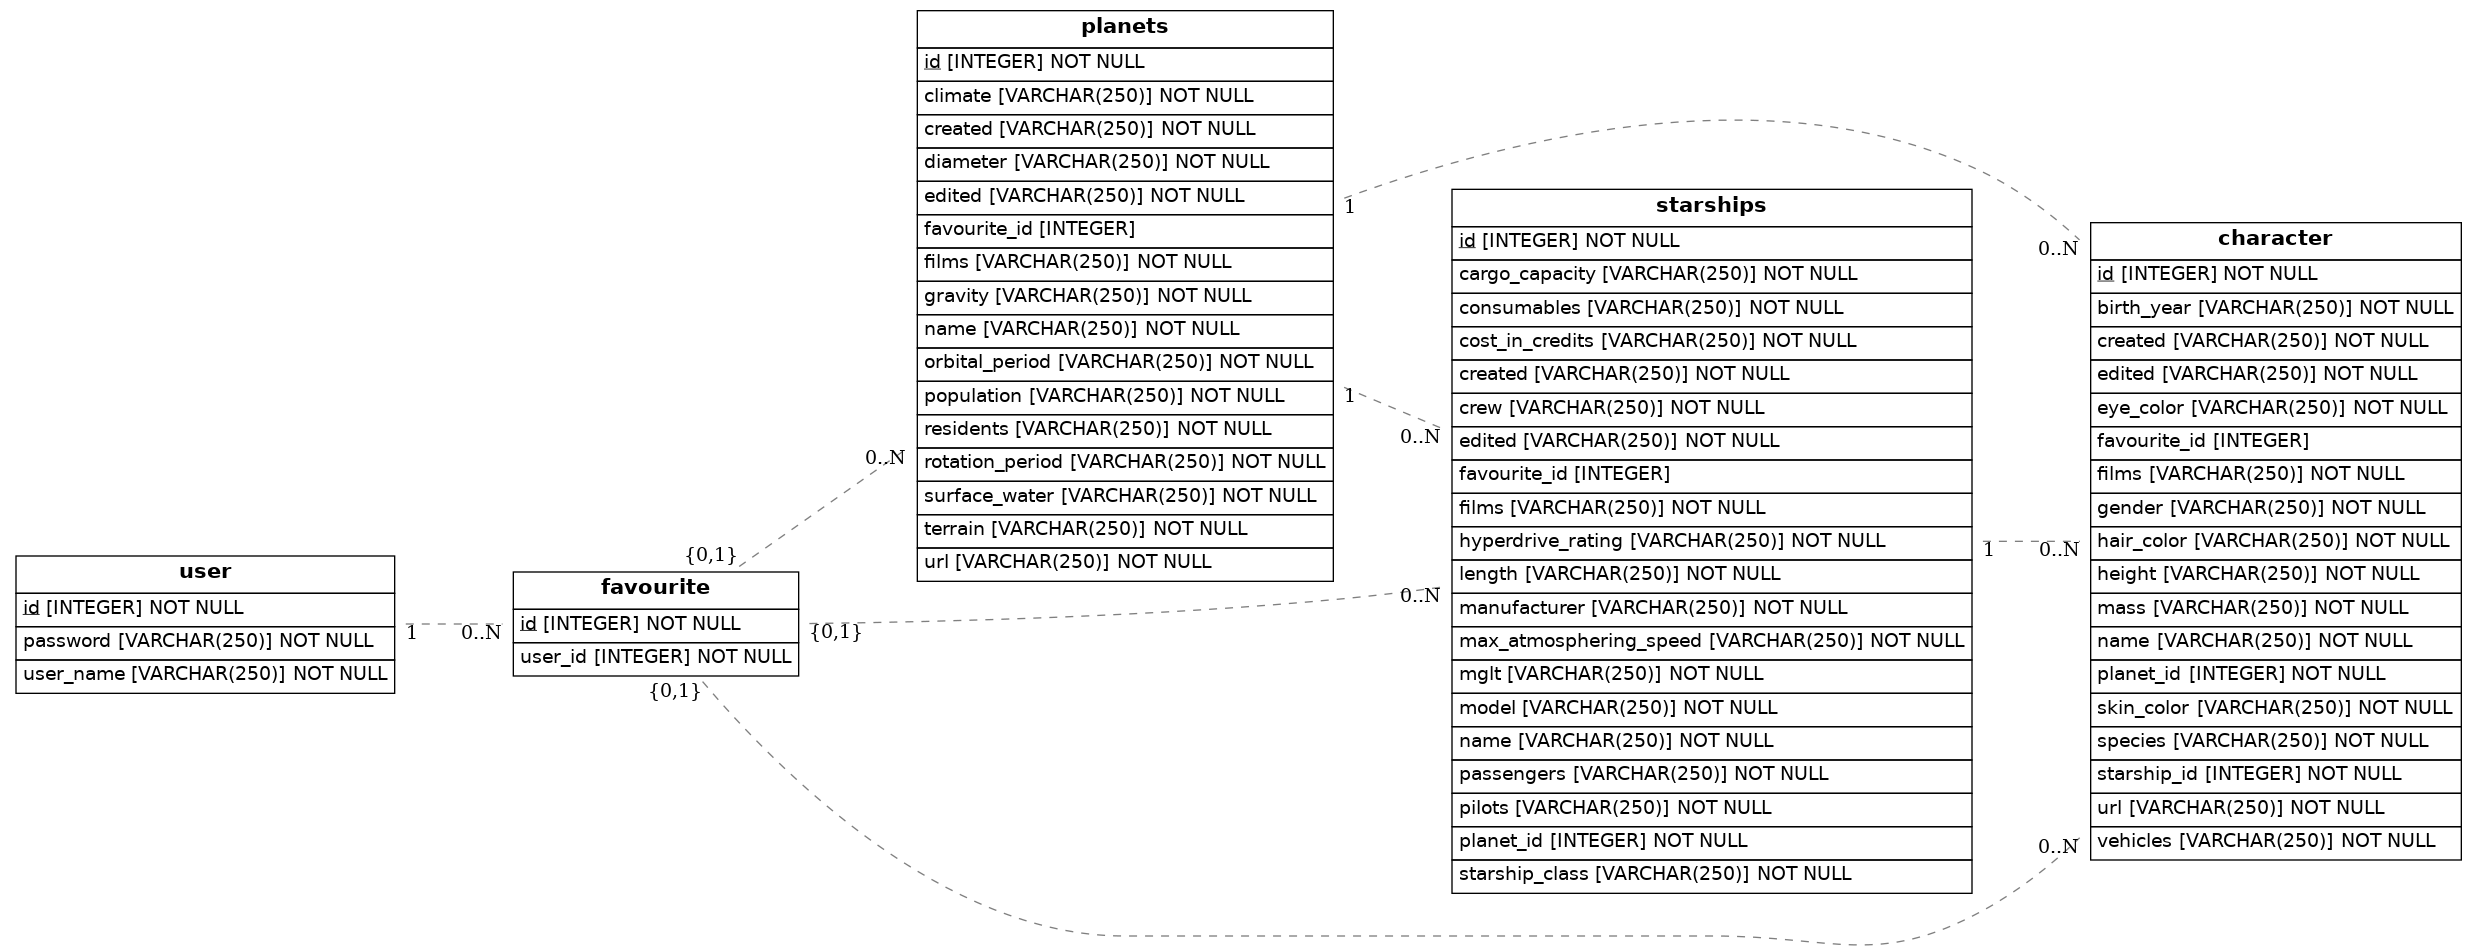
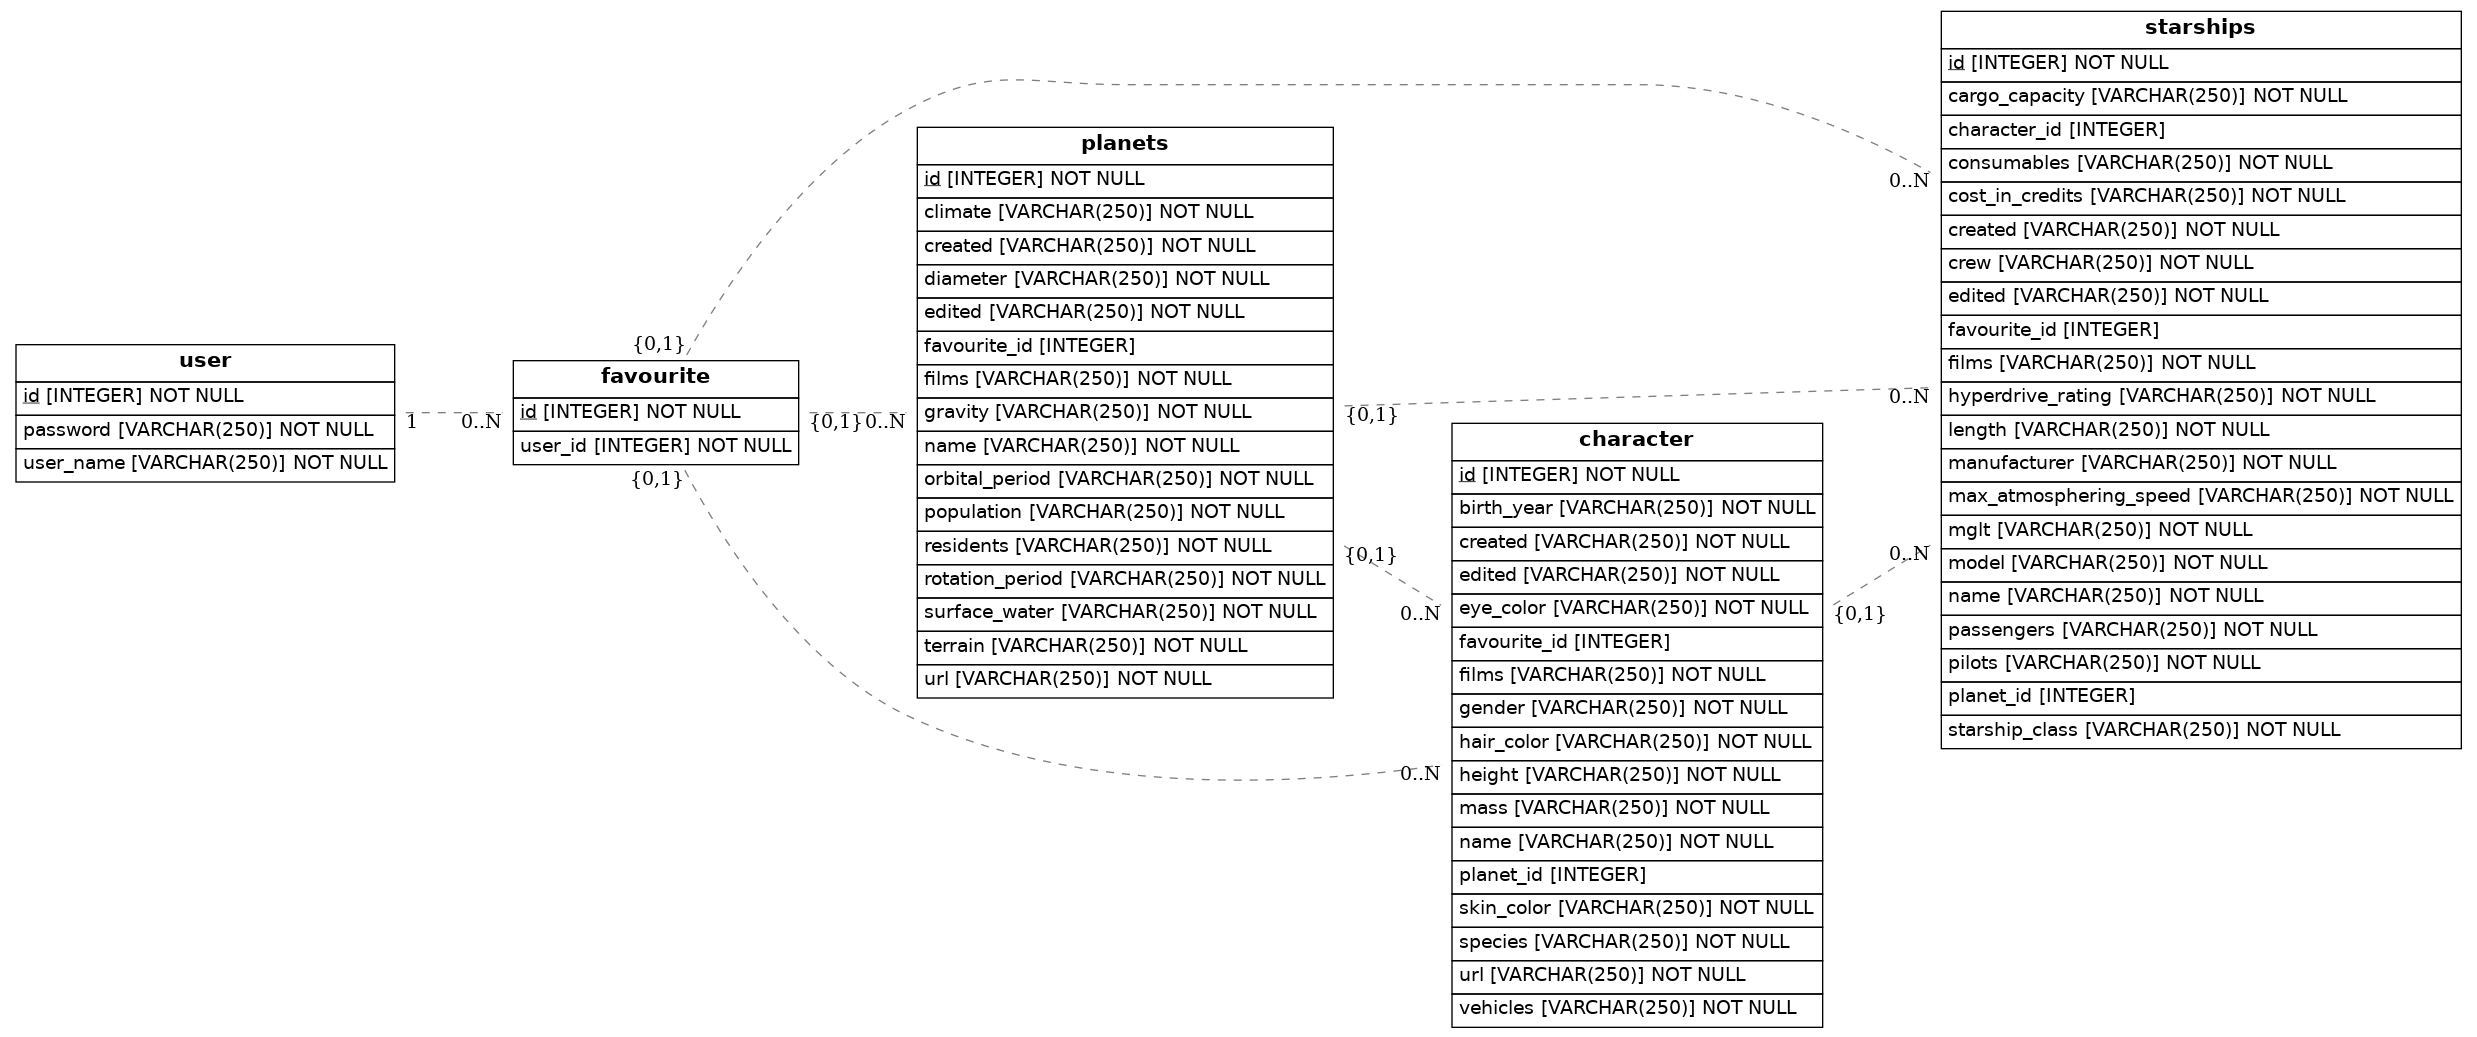
terminado

diff --git a/src/models.py b/src/models.py
@@ -46,10 +46,8 @@ class Planets(Base):
     url = Column(String(250), nullable=False)
     created = Column(String(250), nullable=False)
     edited = Column(String(250), nullable=False)
-    planets_id = Column(Integer, ForeignKey('planets.id'),
-        nullable=False)    
-    starships_id = Column(Integer, ForeignKey('starships.id'),
-        nullable=False)
+    starships = relationship('Starships', backref='user', lazy=True)
+    character = relationship('Character', backref='user', lazy=True)
     favourite_id = Column(Integer, ForeignKey('favourite.id'),
         nullable=True)
 
@@ -75,7 +73,10 @@ class Starships(Base):
     pilots = Column(String(250), nullable=False)
     created = Column(String(250), nullable=False)
     edited = Column(String(250), nullable=False)
-    planet = relationship("Planets", backref="character", uselist=False)
+    planet_id = Column(Integer, ForeignKey('planets.id'),
+        nullable=True)
+    character_id = Column(Integer, ForeignKey('character.id'),
+        nullable=True)
     favourite_id = Column(Integer, ForeignKey('favourite.id'),
         nullable=True)
     
@@ -92,11 +93,12 @@ class Character(Base):
     height = Column(String(250), nullable=False)
     mass = Column(String(250), nullable=False)
     skin_color = Column(String(250), nullable=False)
-    planet = relationship("Planets", backref="character", lazy=True)
+    planet =  Column(String(250), nullable=False)
+    planet_id = Column(Integer, ForeignKey('planets.id'),
+        nullable=True)
     films = Column(String(250), nullable=False)
     species = Column(String(250), nullable=False)
     starships = relationship("Starships", backref="character", uselist=False)
-    starship_id = Column(Integer, ForeignKey("starships.id"), nullable=False)
     vehicles = Column(String(250), nullable=False)
     url = Column(String(250), nullable=False)
     created = Column(String(250), nullable=False)
